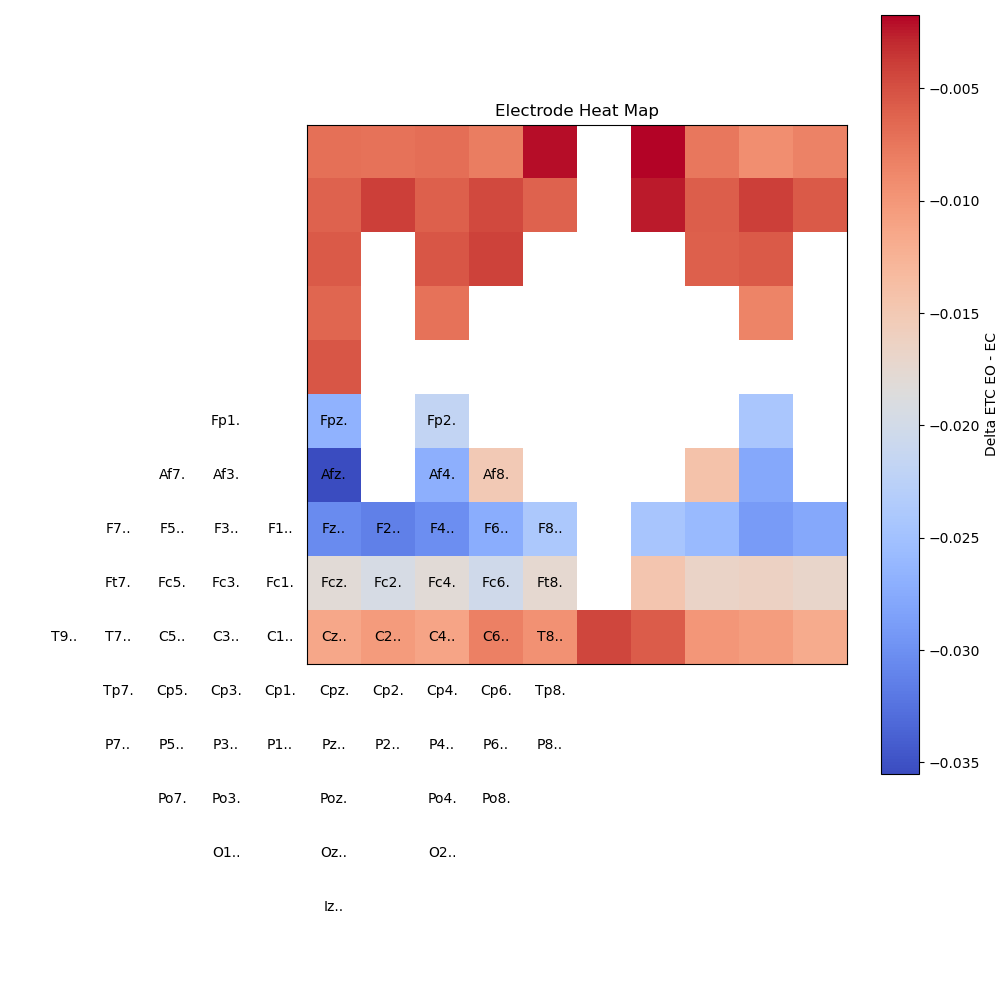
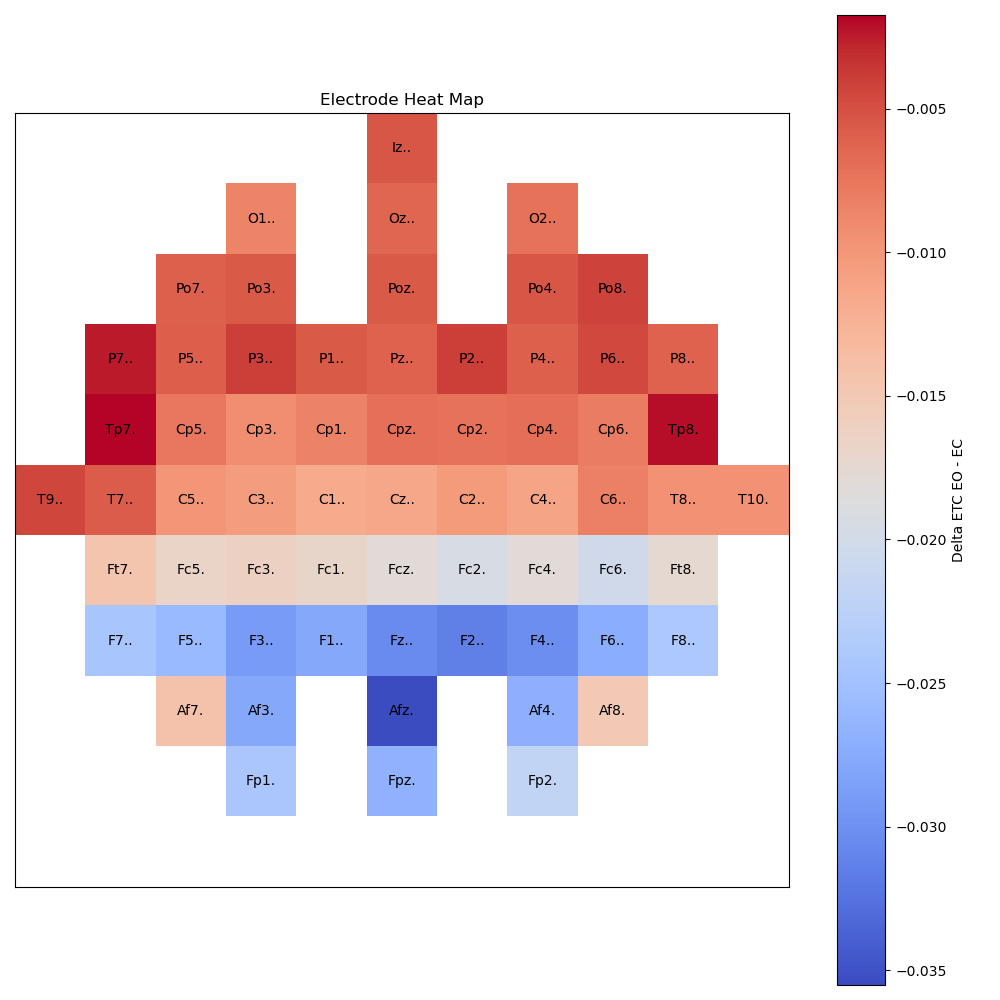
minor changes

diff --git a/EEGAnalysis/main_heatmap.py b/EEGAnalysis/main_heatmap.py
@@ -12,26 +12,26 @@ avg_delta = df.groupby('channel')['delta'].mean()
 
 
 electrode_coords = {
-    "Fp1.": (-2,  4), "Fpz.": ( 0,  4), "Fp2.": ( 2,  4),
-    "Af7.": (-3,  3), "Af3.": (-2,  3), "Afz.": ( 0,  3), "Af4.": ( 2,  3), "Af8.": (3,   3),
-    "F7..": (-4,  2), "F5..": (-3,  2), "F3..": (-2,  2), "F1..": (-1,  2), "Fz..": ( 0,  2), 
-    "F2..": ( 1,  2), "F4..": ( 2,  2), "F6..": ( 3,  2), "F8..": ( 4,  2),
-    "Ft7.": (-4,  1), "Fc5.": (-3,  1), "Fc3.": (-2,  1), "Fc1.": (-1,  1), "Fcz.": ( 0,  1), 
-    "Fc2.": ( 1,  1), "Fc4.": ( 2,  1), "Fc6.": ( 3,  1), "Ft8.": ( 4,  1),
-    "T9..": (-5,  0), "T7..": (-4,  0), "C5..": (-3,  0), "C3..": (-2,  0), "C1..": (-1,  0),"Cz..": ( 0,  0), 
-    "C2..": ( 1,  0), "C4..": ( 2,  0), "C6..": ( 3,  0), "T8..": ( 4,  0), "T10..": (-5, 0),
-    "Tp7.": (-4, -1), "Cp5.": (-3, -1), "Cp3.": (-2, -1), "Cp1.": (-1, -1),
-    "Cpz.": ( 0, -1), "Cp2.": ( 1, -1), "Cp4.": ( 2, -1), "Cp6.": ( 3, -1), "Tp8.": ( 4, -1),
-    "P7..": (-4, -2), "P5..": (-3, -2), "P3..": (-2, -2), "P1..": (-1, -2),
-    "Pz..": ( 0, -2), "P2..": ( 1, -2), "P4..": ( 2, -2), "P6..": ( 3, -2), "P8..": ( 4, -2),
-    "Po7.": (-3, -3), "Po3.": (-2, -3), "Poz.": ( 0, -3), "Po4.": ( 2, -3), "Po8.": ( 3, -3),
-    "O1..": (-2, -4), "Oz..": ( 0, -4), "O2..": ( 2, -4),
-    "Iz..": ( 0, -5)
+    "Fp1.": (3,9), "Fpz.": (5,9), "Fp2.": (7,9),
+    "Af7.": (2,8), "Af3.": (3,8), "Afz.": (5,8), "Af4.": (7,8), "Af8.": (8,8),
+    "F7..": (1,7), "F5..": (2,7), "F3..": (3,7), "F1..": (4,7), "Fz..": (5,7), 
+    "F2..": (6,7), "F4..": (7,7), "F6..": (8,7), "F8..": (9,7),
+    "Ft7.": (1,6), "Fc5.": (2,6), "Fc3.": (3,6), "Fc1.": (4,6), "Fcz.": (5,6), 
+    "Fc2.": (6,6), "Fc4.": (7,6), "Fc6.": (8,6), "Ft8.": (9,6),
+    "T9..": (0,5), "T7..": (1,5), "C5..": (2,5), "C3..": (3,5), "C1..": (4,5),"Cz..": (5,5), 
+    "C2..": (6,5), "C4..": (7,5), "C6..": (8,5), "T8..": (9,5), "T10.": (10,5),
+    "Tp7.": (1,4), "Cp5.": (2,4), "Cp3.": (3,4), "Cp1.": (4,4),
+    "Cpz.": (5,4), "Cp2.": (6,4), "Cp4.": (7,4), "Cp6.": (8,4), "Tp8.": (9,4),
+    "P7..": (1,3), "P5..": (2,3), "P3..": (3,3), "P1..": (4,3),
+    "Pz..": (5,3), "P2..": (6,3), "P4..": (7,3), "P6..": (8,3), "P8..": (9,3),
+    "Po7.": (2,2), "Po3.": (3,2), "Poz.": (5,2), "Po4.": (7,2), "Po8.": (8,2),
+    "O1..": (3,1), "Oz..": (5,1), "O2..": (7,1),
+    "Iz..": (5,0)
 }
 
 
 
-heatmap = np.full((10,10), np.nan)
+heatmap = np.full((11,11), np.nan)
 
 for ch, d in avg_delta.items():
     if ch in electrode_coords:
